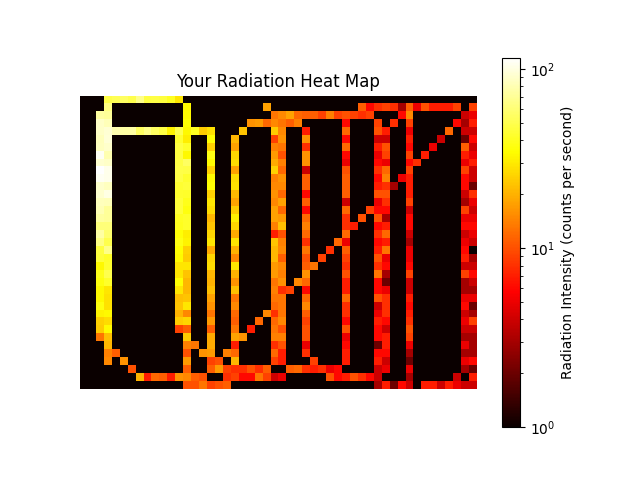
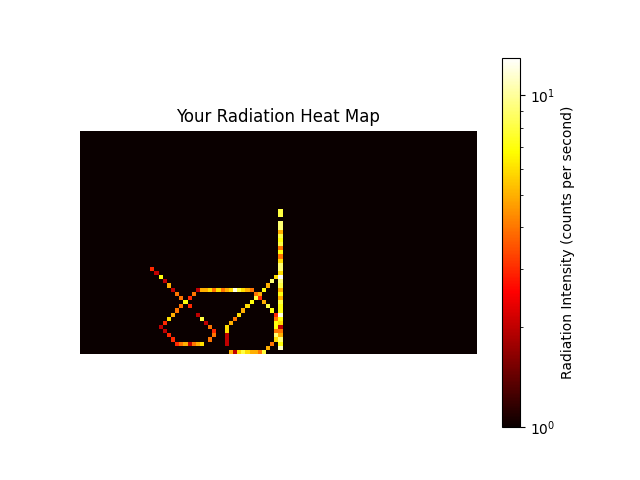
made fullscreen and added code to compile into exe

diff --git a/radmapper_dev.py b/radmapper_dev.py
@@ -6,27 +6,27 @@ import numpy as np
 import matplotlib.pyplot as plt
 from matplotlib.colors import LogNorm
 
-# Constants
-SCREEN_WIDTH, SCREEN_HEIGHT = 800,600
-GRID_SIZE = 16
-GRID_WIDTH, GRID_HEIGHT = SCREEN_WIDTH // GRID_SIZE, SCREEN_HEIGHT // GRID_SIZE
-CAR_COLOR = (255, 0, 0)
-WALL_COLOR = (0, 0, 255)
-SOURCE_COLOR = (0, 0, 0)  # Invisible color (same as background)
-FONT_COLOR = (255, 255, 255)
-FONT_SIZE = 24
-CELL_SIZE = 16
-GROUND_MAPPING_TIME = 45
-AERIAL_MAPPING_TIME = 25
-
 # Initialize Pygame
 pygame.init()
 pygame.mixer.init()
 pygame.font.init()
 
 # Create the screen
-screen = pygame.display.set_mode((SCREEN_WIDTH, SCREEN_HEIGHT))
+screen = pygame.display.set_mode((0, 0), pygame.FULLSCREEN)
 pygame.display.set_caption("Radmapper V1.4 (now with attenuation!)")
+
+SCREEN_HEIGHT = screen.get_height()
+SCREEN_WIDTH = screen.get_width()
+GRID_SIZE = 30
+GRID_WIDTH, GRID_HEIGHT = SCREEN_WIDTH // GRID_SIZE, SCREEN_HEIGHT // GRID_SIZE
+CAR_COLOR = (255, 0, 0)
+WALL_COLOR = (0, 0, 255)
+SOURCE_COLOR = (0, 0, 0)  # Invisible color (same as background)
+FONT_COLOR = (255, 255, 255)
+FONT_SIZE = 24
+CELL_SIZE = GRID_SIZE
+GROUND_MAPPING_TIME = 35
+AERIAL_MAPPING_TIME = 20
 
 # Load textures
 wall_image = pygame.image.load("textures/redbrick.png")
@@ -46,7 +46,7 @@ roof_image = pygame.transform.scale(roof_image, (CELL_SIZE, CELL_SIZE))
 man_front_image = pygame.transform.scale(man_front_image, (CELL_SIZE*2, CELL_SIZE*2))
 man_back_image = pygame.transform.scale(man_back_image, (CELL_SIZE*2, CELL_SIZE*2))
 drone_image = pygame.transform.scale(drone_image, (CELL_SIZE*3, CELL_SIZE*3))
-trefoil_image = pygame.transform.scale(trefoil_image, (CELL_SIZE, CELL_SIZE))
+trefoil_image = pygame.transform.scale(trefoil_image, (CELL_SIZE*5, CELL_SIZE*5))
 
 # Game states
 MENU, GROUND_MAPPING, AERIAL_MAPPING, GAME_OVER, SHOW_SOURCE, CALL_MAIN, SHOW_MAPS, QUIT = 0, 1, 2, 3, 4, 5, 6, 7
@@ -145,8 +145,8 @@ def distance_squared_3D(x1, y1, x2, y2):
 
 def draw_counts(counts, x, y):
     font = pygame.font.Font("font/PixeloidMono-d94EV.ttf", 16)
-    text1 = font.render(f"CPS:", True, (255,20,147))
-    text2 = font.render(f"{counts:.2f}", True, (255,20,147))
+    text1 = font.render(f"CPS:", True, (255,0,0))
+    text2 = font.render(f"{counts:.2f}", True, (255,0,0))
     screen.blit(text1, (x - text1.get_width(), y))
     screen.blit(text2, (x - text2.get_width(), y + text1.get_height()))
 
@@ -167,8 +167,8 @@ def draw_timer(time_left, starting_time):
 def draw_menu():
     font = pygame.font.Font("font/PixeloidMono-d94EV.ttf", 2 * FONT_SIZE)
     text1 = font.render("Radmapper V1.4", True, (255,105,180))
-    screen.blit(text1, (SCREEN_WIDTH // 2 - text1.get_width() // 2, SCREEN_HEIGHT - (SCREEN_HEIGHT/80) * text1.get_height()))
-
+    screen.blit(text1, (SCREEN_WIDTH // 2 - text1.get_width() // 2, SCREEN_HEIGHT - (SCREEN_HEIGHT/70) * text1.get_height()))
+    screen.blit(trefoil_image, (SCREEN_WIDTH // 2 - trefoil_image.get_width() // 2, SCREEN_HEIGHT // 2 - trefoil_image.get_height() - GRID_SIZE*3))
 def draw_show_maps():
     screen.fill((0,0,0))
     font = pygame.font.Font("font/PixeloidMono-d94EV.ttf", FONT_SIZE)
@@ -474,7 +474,7 @@ def main():
         if current_state == GROUND_MAPPING:
             clock.tick(10)  # Adjust the speed of the game
         elif current_state == AERIAL_MAPPING:
-            clock.tick(30)  # Adjust the speed of the game
+            clock.tick(25)  # Adjust the speed of the game
         else:
             clock.tick(60)
         prev_state = current_state

diff --git a/setup.py b/setup.py
@@ -1,0 +1,12 @@
+import cx_Freeze
+
+executables = [cx_Freeze.Executable("radmapper_dev.py")]
+
+cx_Freeze.setup(
+    name="Radmapper V1.4",
+    options={"build_exe": {"packages":["pygame", "numpy", "matplotlib", "random", "time", "sys"],
+                           "include_files":["font/PixeloidMono-d94EV.ttf", "music/adventure.mp3",
+                                            "music/menu.mp3", "music/platforming.mp3"]}},
+    executables = executables
+
+    )
